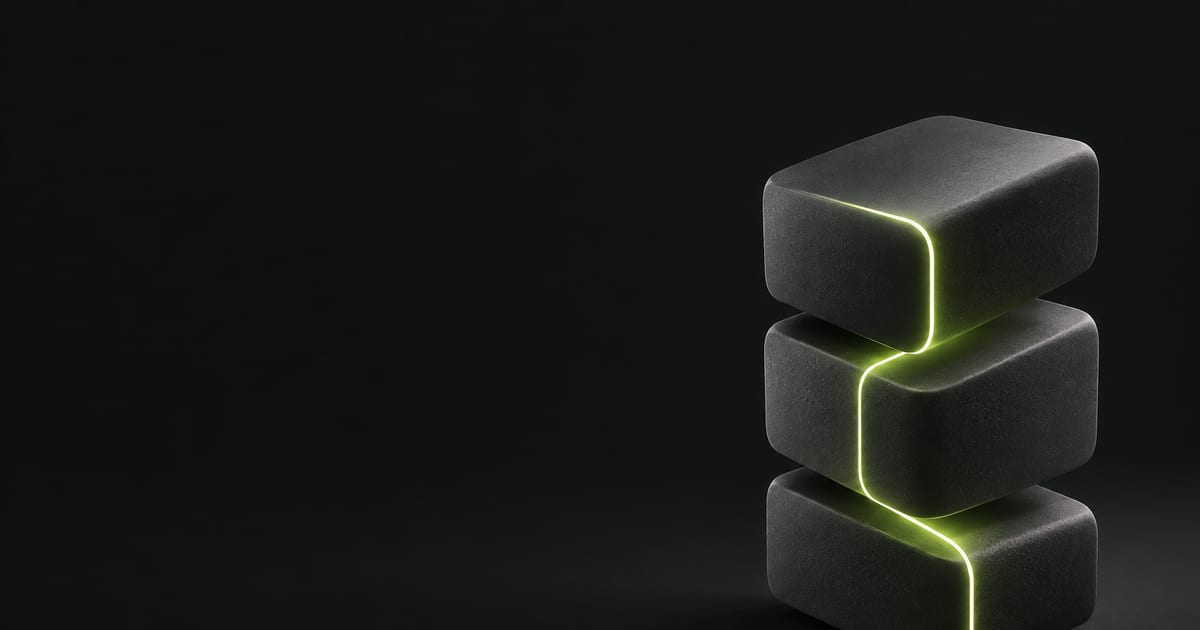
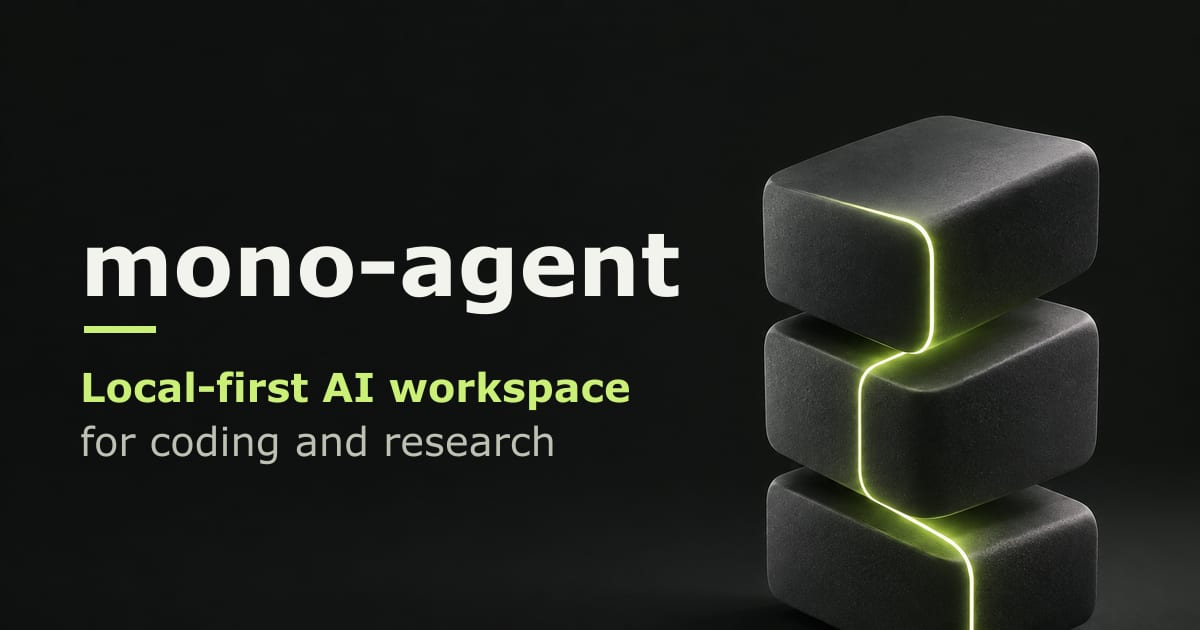
Address marketing site review: CI order, copy honesty, SEO card, mobile header, CTA proof
Move marketing build before test:unit (contracts read dist/) and pin the order in marketing-ci. Soften portability claim to versioned/reused configuration; restate local-first without absolute data-isolation. Retitle SEO to category-led 'Local-first AI workspace for coding and research' (H1 unchanged); composite deterministic brand typography onto the OG card and test its alts. Compact the mobile header into brand+actions plus a deliberate two-by-two nav. Strengthen the hero CTA test to full initial-viewport intersection with animation settle; extend screenshots to use-cases/start per viewport.

Changed region(s): [[0.0617, 0.3619, 0.5858, 0.5127], [0.0617, 0.573, 0.5242, 0.754], [0.0617, 0.5127, 0.1233, 0.5429]]

diff --git a/marketing/tests/site.browser.spec.ts b/marketing/tests/site.browser.spec.ts
@@ -47,12 +47,42 @@ for (const viewport of VIEWPORTS) {
           name: "Your agents. Your models. Your workspace.",
         }),
       ).toBeVisible();
-      await expect(
-        page.getByRole("link", { name: "Get the code on GitHub" }).first(),
-      ).toBeVisible();
-      await expect(
-        page.getByRole("link", { name: "Read the docs" }).first(),
-      ).toBeVisible();
+    });
+
+    test("keeps both hero CTAs fully inside the initial viewport", async ({
+      page,
+    }) => {
+      await page.goto("/", { waitUntil: "networkidle" });
+      // Deterministic settle: no webfonts to load, but wait out the
+      // entrance animation so the measured boxes are final.
+      await page.evaluate(() => document.fonts.ready);
+      await page.waitForFunction(
+        () =>
+          document
+            .getAnimations()
+            .every((animation) => animation.playState !== "running"),
+        null,
+        { timeout: 5000 },
+      );
+      const viewport = page.viewportSize();
+      expect(viewport).not.toBeNull();
+      for (const name of ["Get the code on GitHub", "Read the docs"]) {
+        const box = await page
+          .getByRole("link", { name })
+          .first()
+          .boundingBox();
+        expect(box, `${name} has a bounding box`).not.toBeNull();
+        expect(box!.x, `${name} left edge`).toBeGreaterThanOrEqual(0);
+        expect(box!.y, `${name} top edge`).toBeGreaterThanOrEqual(0);
+        expect(
+          box!.x + box!.width,
+          `${name} right edge`,
+        ).toBeLessThanOrEqual(viewport!.width);
+        expect(
+          box!.y + box!.height,
+          `${name} bottom edge`,
+        ).toBeLessThanOrEqual(viewport!.height);
+      }
     });
   });
 }

diff --git a/marketing/public/styles.css b/marketing/public/styles.css
@@ -185,6 +185,41 @@ a:hover {
   gap: 0.75rem;
 }
 
+/* Compact mobile header: brand + actions share the first row, the four
+   section links take a deliberate two-by-two second row — no orphan wrap. */
+@media (max-width: 640px) {
+  .site-header .wrap {
+    gap: 0.6rem 1rem;
+    padding-block: 0.8rem;
+  }
+
+  .site-nav {
+    flex-basis: 100%;
+    order: 3;
+  }
+
+  .site-nav ul {
+    display: grid;
+    grid-template-columns: repeat(2, auto);
+    justify-content: start;
+    column-gap: 1.5rem;
+    row-gap: 0.3rem;
+  }
+
+  .site-nav a {
+    font-size: 0.92rem;
+  }
+
+  .link-docs {
+    font-size: 0.92rem;
+  }
+
+  .btn-small {
+    padding: 0.45rem 0.9rem;
+    font-size: 0.9rem;
+  }
+}
+
 .link-docs {
   color: var(--muted);
   text-decoration: none;

diff --git a/marketing/README.md b/marketing/README.md
@@ -81,6 +81,6 @@ the docs site on Vercel) is:
 ## CI
 
 The repo's `ci.yml` runs a dedicated parallel **`marketing`** job: isolated
-install, unit contracts, Chromium install, build (with link check), then the
-browser audit. Treat a red **`marketing`** check as a merge blocker by
-convention, same as the `website` lane.
+install, Chromium install, build (with link check), unit contracts against
+the build, then the browser audit. Treat a red **`marketing`** check as a
+merge blocker by convention, same as the `website` lane.
